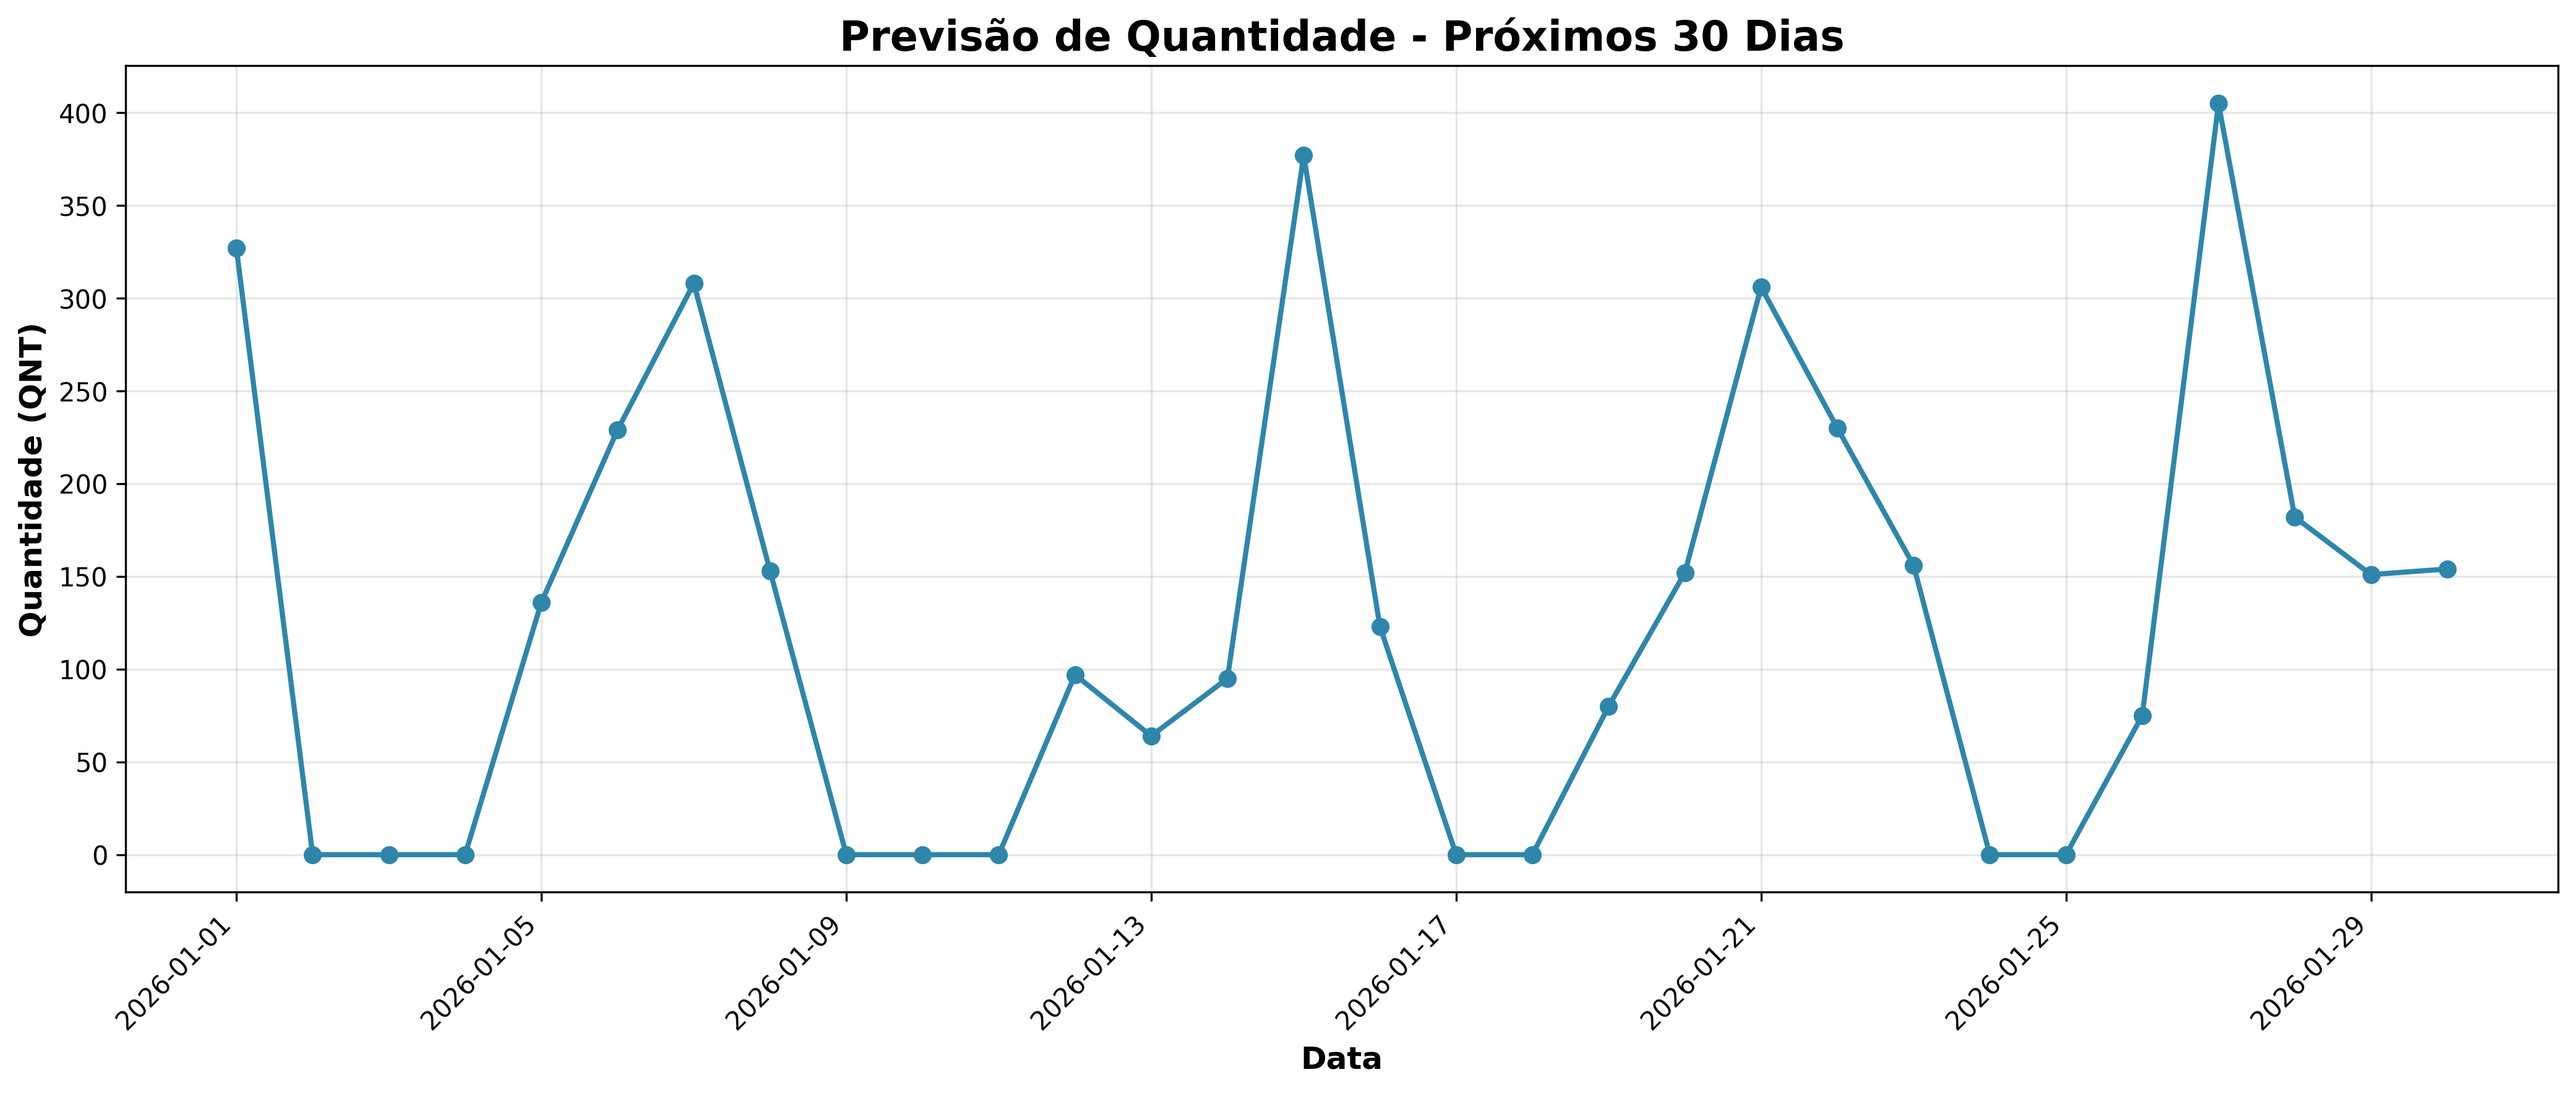
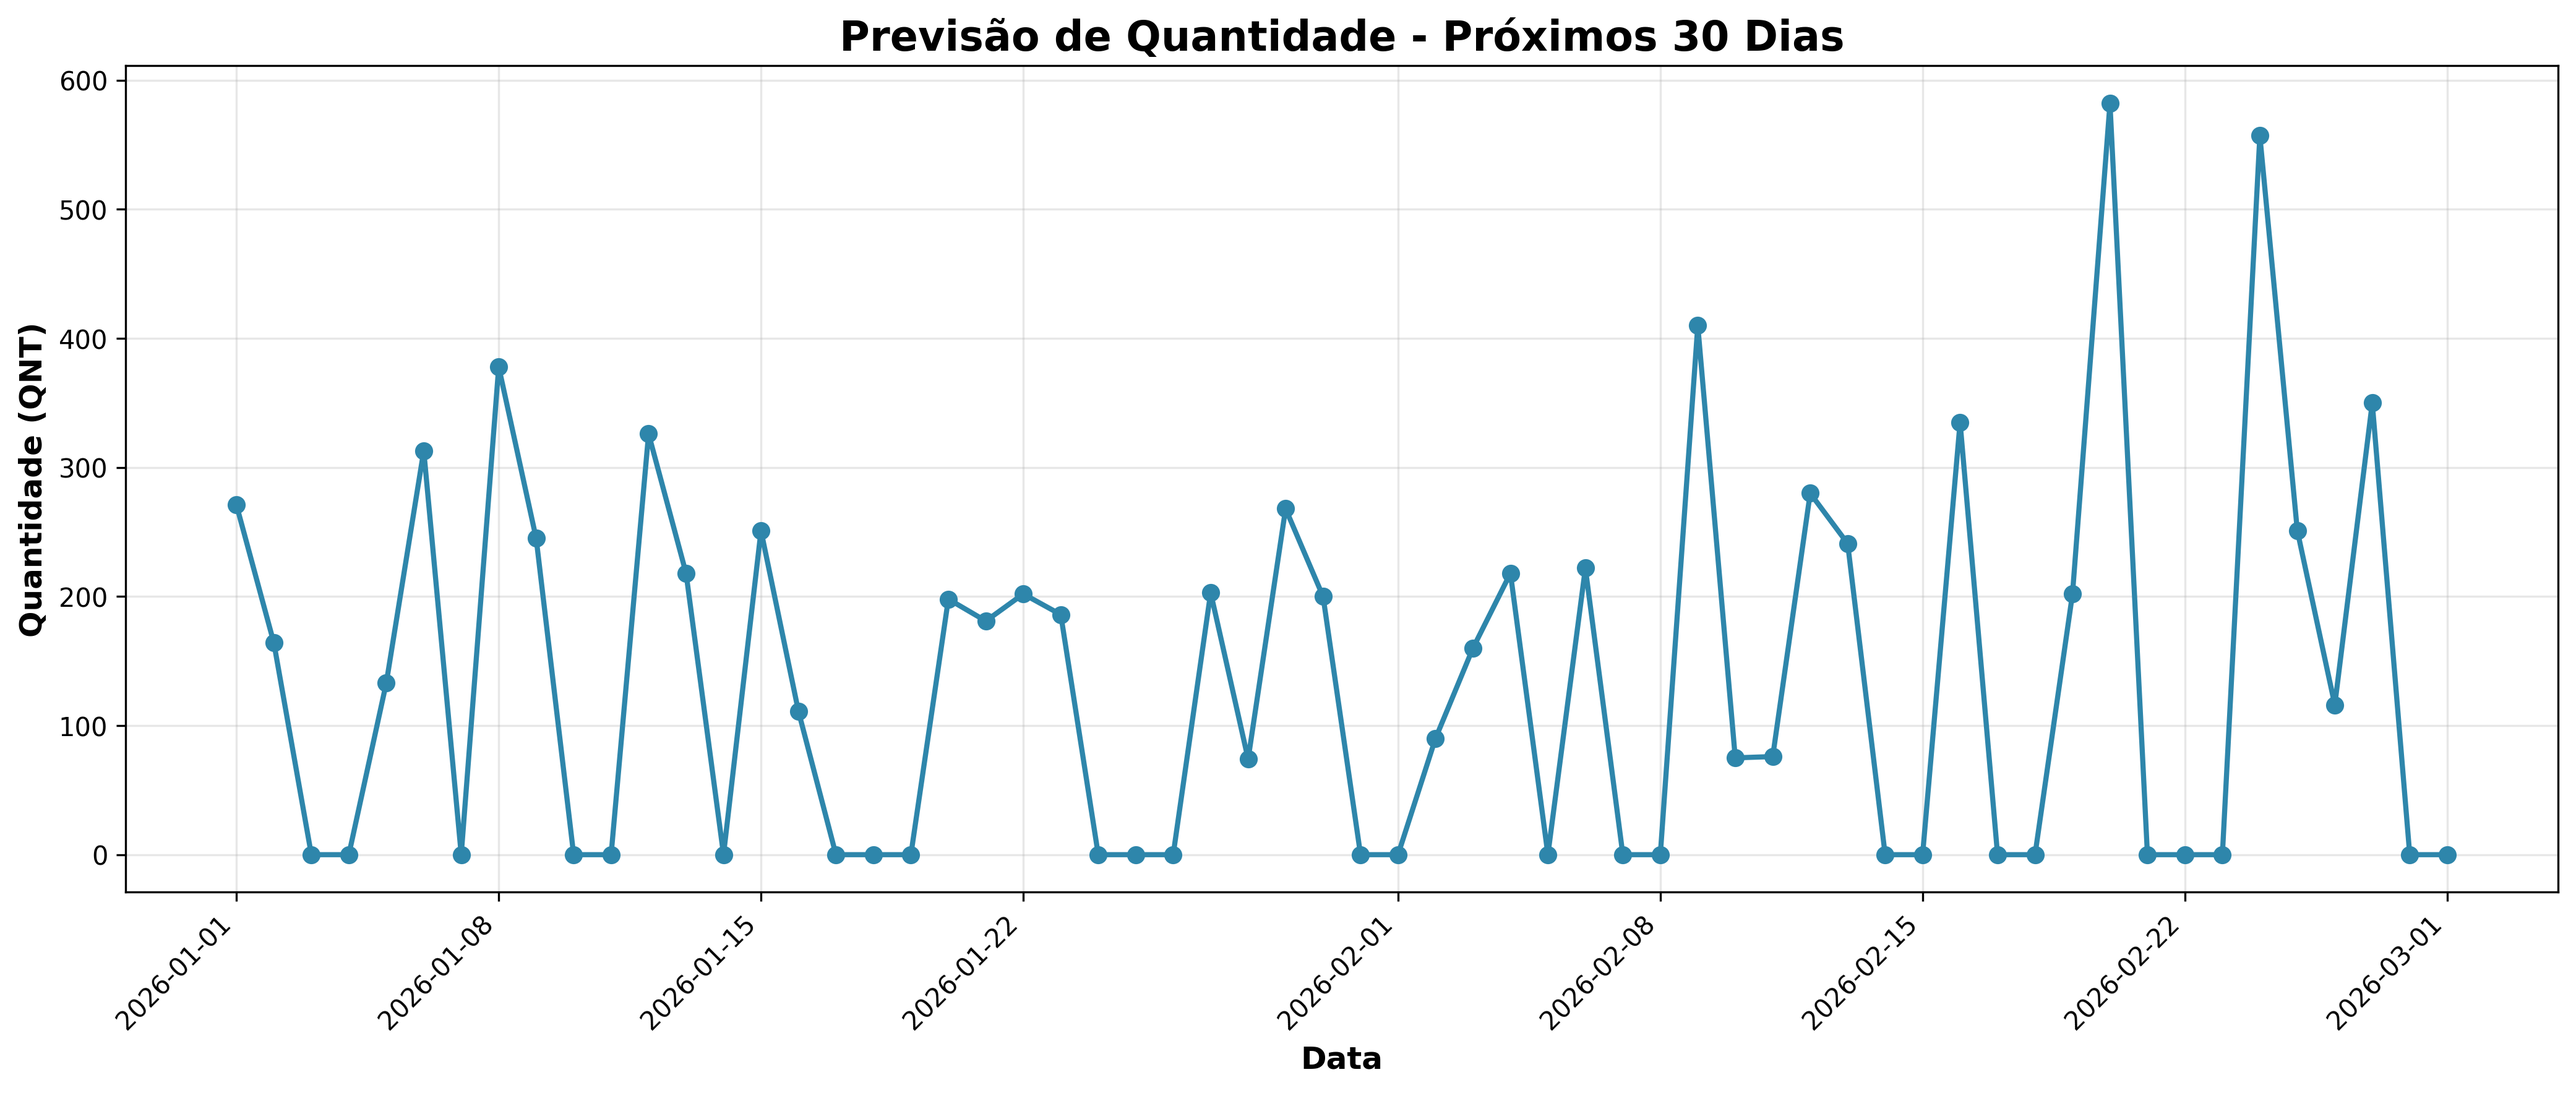
colocando o plot no modelo mensal

diff --git a/codigo.py b/codigo.py
@@ -59,37 +59,14 @@ try:
     results = model.fit(disp=False, cov_type='approx')
     print(results.summary())
     
-    # Fazer previsões para os próximos 30 dias com intervalo de confiança
-    forecast = results.get_forecast(steps=30)
+    # Fazer previsões para os próximos 30 dias
+    forecast = results.get_forecast(steps=60)
     forecast_values = forecast.predicted_mean
-    forecast_ci = forecast.conf_int(alpha=0.2)  # 80% intervalo de confiança
     
-    # Adicionar variação aleatória dentro do intervalo de confiança
-    np.random.seed(None)  # Para variação não determinística
-    lower_bound = forecast_ci.iloc[:, 0]
-    upper_bound = forecast_ci.iloc[:, 1]
-    
-    # Gerar valores aleatórios entre os limites, mas tendendo para a previsão média
-    forecast_com_variacao = []
-    for i, (lower, upper, mean, data_index) in enumerate(zip(lower_bound, upper_bound, forecast_values, forecast_values.index)):
-        # Verificar se é final de semana (5 = sábado, 6 = domingo)
-        dia_semana = data_index.weekday()
-        
-        if dia_semana in [5, 6]:  # Finais de semana
-            # Colocar 0 nos finais de semana
-            forecast_com_variacao.append(0)
-        else:
-            # Dias da semana: gerar variação aleatória
-            lower_clipped = max(0, lower)
-            upper_clipped = max(lower_clipped + 1, upper)
-            valor = np.random.normal(loc=mean, scale=(upper - lower) / 4)
-            valor = np.clip(valor, lower_clipped, upper_clipped)
-            forecast_com_variacao.append(max(0, round(valor)))
-    
-    # Criar dataframe com as previsões variadas
+    # Criar dataframe simples com data e previsão arredondada (sem negativos)
     forecast_df = pd.DataFrame({
         'Data': forecast_values.index.strftime('%d/%m/%Y'),
-        'Previsão QNT': forecast_com_variacao
+        'Previsão QNT': forecast_values.round(0).clip(lower=0).astype(int)
     })
     
     print("\nPrevisão para os próximos 30 dias:")
@@ -99,7 +76,7 @@ try:
     plt.figure(figsize=(14, 6))
     forecast_df['Data'] = pd.to_datetime(forecast_df['Data'], format='%d/%m/%Y')
     plt.plot(forecast_df['Data'], forecast_df['Previsão QNT'], marker='o', linestyle='-', linewidth=2, markersize=6, color='#2E86AB')
-    plt.title('Previsão de Quantidade - Próximos 30 Dias', fontsize=16, fontweight='bold')
+    plt.title('Previsão de Quantidade - Próximos 60 Dias', fontsize=16, fontweight='bold')
     plt.xlabel('Data', fontsize=12, fontweight='bold')
     plt.ylabel('Quantidade (QNT)', fontsize=12, fontweight='bold')
     plt.grid(True, alpha=0.3)

diff --git a/Teste.py b/Teste.py
@@ -112,4 +112,32 @@ for proxima_data,previsao_qnt in previsoes_series.items():
         
     print(f"previsão para {proxima_data.strftime('%m/%Y')} : {previsao_qnt_arredondada}")
 
+# Filtrar previsões para 2026
+previsoes_2026 = [p for p in previsoes_finais if p['data'].year == 2026]
+
+if previsoes_2026:
+    # Extrair dados para o gráfico
+    meses = [p['mes_nome'] for p in previsoes_2026]
+    valores = [p['previsao'] for p in previsoes_2026]
+    datas_str = [p['data'].strftime('%m/%Y') for p in previsoes_2026]
+    
+    # Criar o gráfico
+    plt.figure(figsize=(12, 6))
+    plt.plot(range(len(meses)), valores, marker='o', linewidth=2, markersize=8, color='#2E86AB')
+    
+    # Adicionar valores em cada ponto
+    for i, valor in enumerate(valores):
+        plt.text(i, valor + 5, str(valor), ha='center', va='bottom', fontsize=9, fontweight='bold')
+    
+    # Configurar rótulos e título
+    plt.xlabel('Mês', fontsize=12, fontweight='bold')
+    plt.ylabel('Quantidade Prevista', fontsize=12, fontweight='bold')
+    plt.title('Previsões para 2026', fontsize=14, fontweight='bold')
+    plt.xticks(range(len(meses)), datas_str, rotation=45, ha='right')
+    plt.grid(True, alpha=0.3)
+    plt.tight_layout()
+    plt.savefig(r"C:\Users\izabe\Desktop\Projeto Bernardo\previsao_anual2026.png", dpi=300, bbox_inches='tight')
+    plt.show()
+else:
+    print("Nenhuma previsão encontrada para 2026")
     

diff --git a/arquivo.py b/arquivo.py
@@ -60,10 +60,10 @@ try:
     print(results.summary())
     
     # Fazer previsões para os próximos 30 dias com intervalo de confiança
-    forecast = results.get_forecast(steps=30)
+    forecast = results.get_forecast(steps=60)
     forecast_values = forecast.predicted_mean
-    forecast_ci = forecast.conf_int(alpha=0.2)  # 80% intervalo de confiança
-    
+    forecast_ci = forecast.conf_int(alpha=0.05)  # 90% intervalo de confiança
+
     # Adicionar variação aleatória dentro do intervalo de confiança
     np.random.seed(None)  # Para variação não determinística
     lower_bound = forecast_ci.iloc[:, 0]
